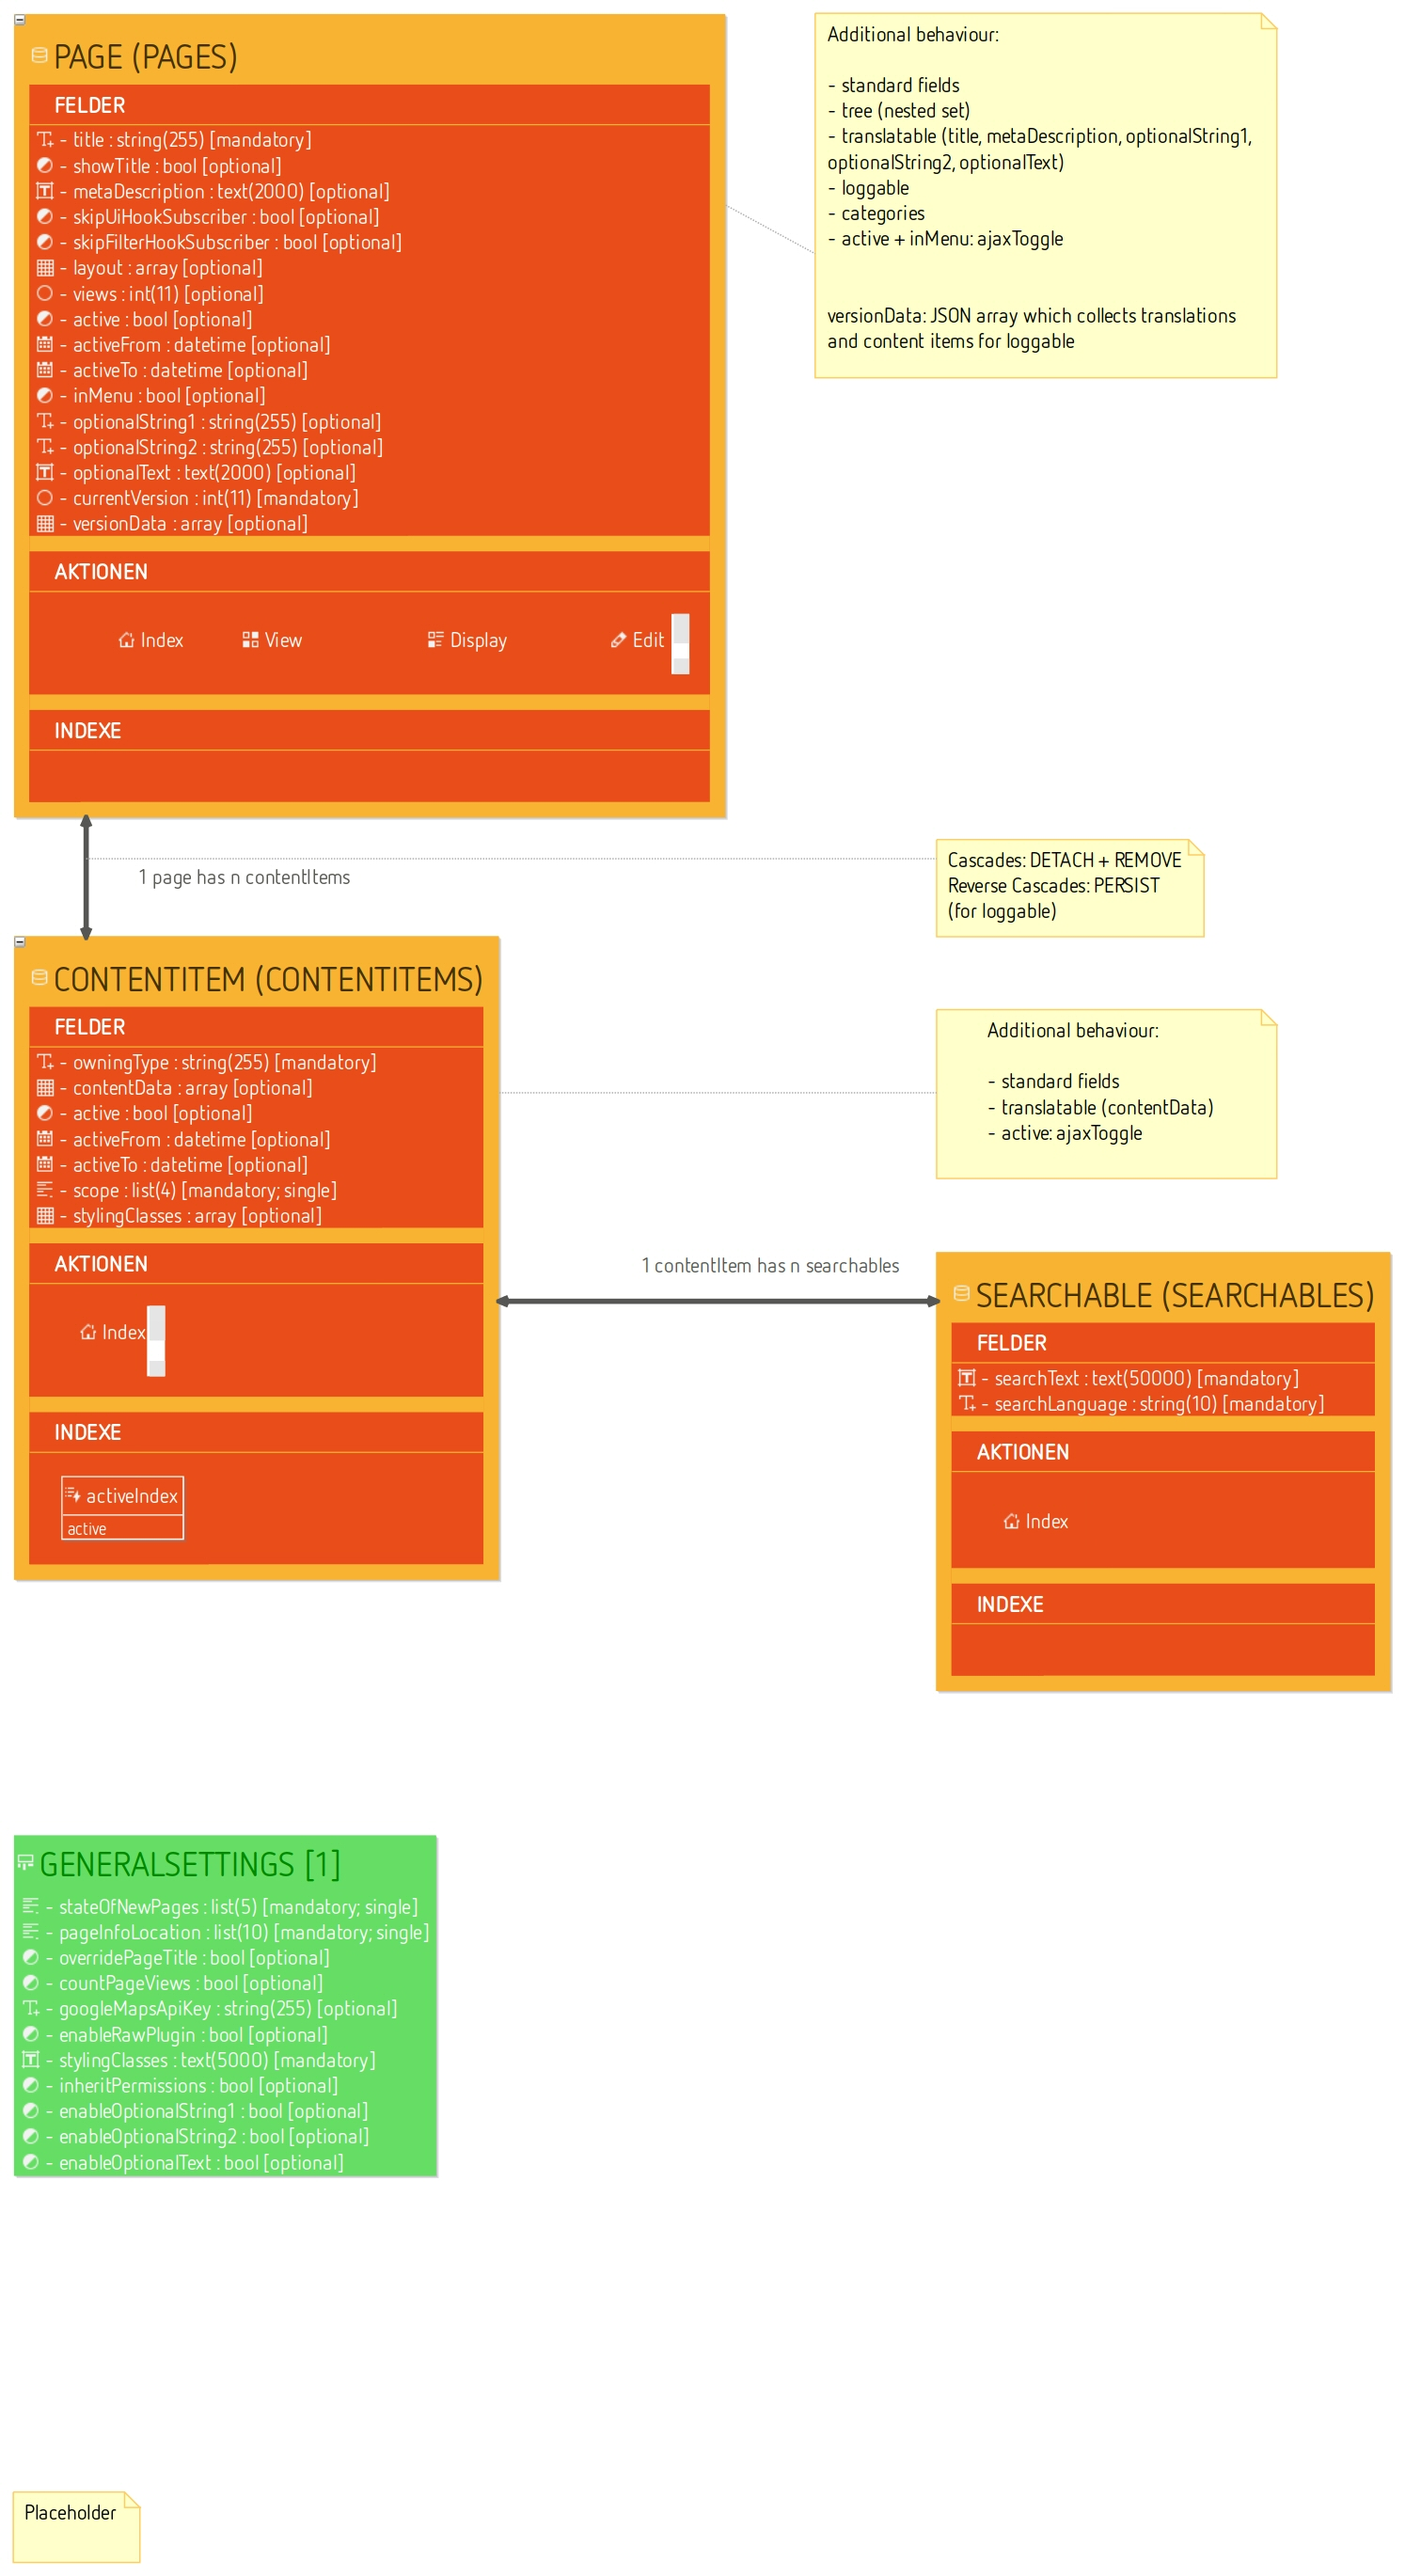
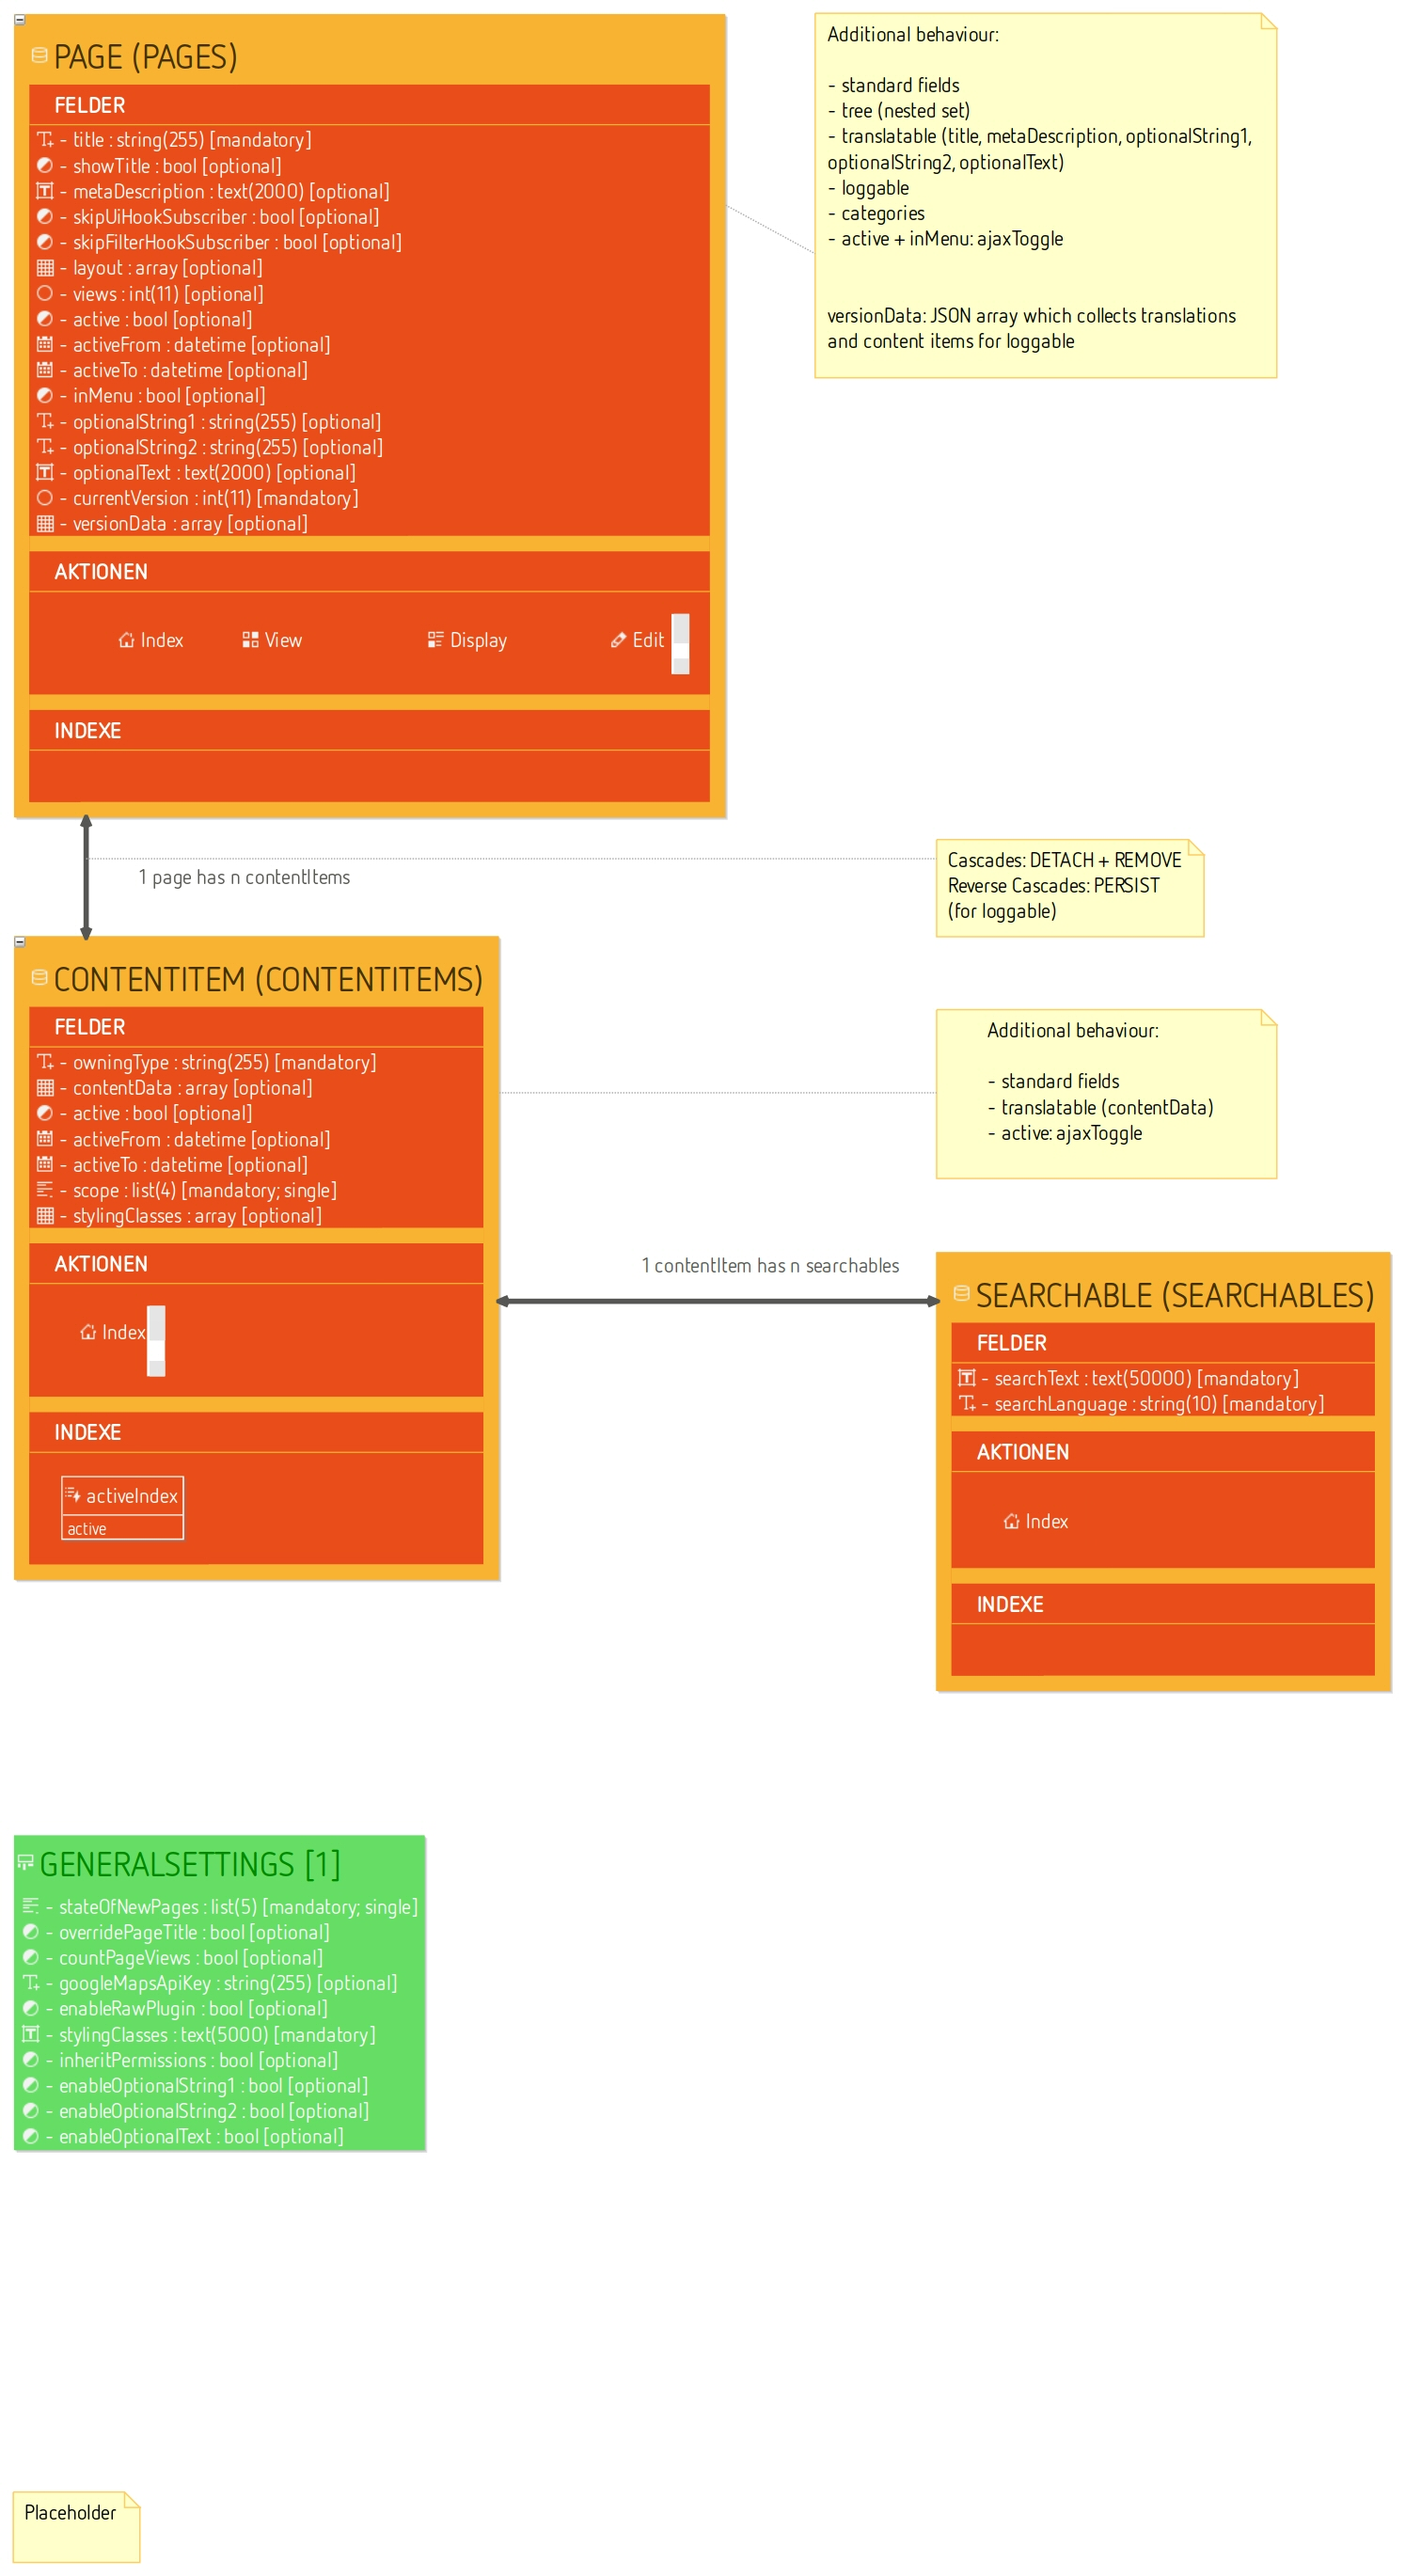
removed obsolete modvar

Changed region(s): [[0.0, 0.7138, 0.3387, 0.8689]]

diff --git a/src/modules/Zikula/ContentModule/Resources/docs/model/structure_de.html b/src/modules/Zikula/ContentModule/Resources/docs/model/structure_de.html
@@ -1552,25 +1552,6 @@
                 </td>
             </tr>
             <tr>
-                <th id="hVariablesGeneralSettingsFieldPageInfoLocation" scope="row" headers="hVariablesGeneralSettingsFieldName">Page info location</th>
-                <td headers="hVariablesGeneralSettingsFieldPageInfoLocation hVariablesGeneralSettingsFieldType">Liste</td>
-                <td headers="hVariablesGeneralSettingsFieldPageInfoLocation hVariablesGeneralSettingsFieldMandatory">true</td>
-                <td headers="hVariablesGeneralSettingsFieldPageInfoLocation hVariablesGeneralSettingsFieldDefault"></td>
-                <td headers="hVariablesGeneralSettingsFieldPageInfoLocation hVariablesGeneralSettingsFieldDisplayType">ALL</td>
-                <td headers="hVariablesGeneralSettingsFieldPageInfoLocation hVariablesGeneralSettingsFieldConstraints">
-                    <ul>
-                        <li>Hat eine Länge von 10 Zeichen.</li>
-                    </ul>
-                </td>
-                <td headers="hVariablesGeneralSettingsFieldPageInfoLocation hVariablesGeneralSettingsFieldRemarks">
-                    <ul>
-                        <li>Dieses Feld ist nicht eindeutig und erlaubt keine Null-Werte.</li>
-                        <li>Die Liste wird durch eine einwertige Dropdownliste repräsentiert.</li>
-                        <li>Verfügbare Einträge: <ul><li>Top of the page, left of the page title (top)</li><li>Bottom of the page (bottom)</li></ul></li>
-                    </ul>
-                </td>
-            </tr>
-            <tr>
                 <th id="hVariablesGeneralSettingsFieldOverridePageTitle" scope="row" headers="hVariablesGeneralSettingsFieldName">Override page title</th>
                 <td headers="hVariablesGeneralSettingsFieldOverridePageTitle hVariablesGeneralSettingsFieldType">Boolesches</td>
                 <td headers="hVariablesGeneralSettingsFieldOverridePageTitle hVariablesGeneralSettingsFieldMandatory">false</td>

diff --git a/src/modules/Zikula/ContentModule/Resources/docs/model/structure_en.html b/src/modules/Zikula/ContentModule/Resources/docs/model/structure_en.html
@@ -1552,25 +1552,6 @@
                 </td>
             </tr>
             <tr>
-                <th id="hVariablesGeneralSettingsFieldPageInfoLocation" scope="row" headers="hVariablesGeneralSettingsFieldName">Page info location</th>
-                <td headers="hVariablesGeneralSettingsFieldPageInfoLocation hVariablesGeneralSettingsFieldType">List</td>
-                <td headers="hVariablesGeneralSettingsFieldPageInfoLocation hVariablesGeneralSettingsFieldMandatory">true</td>
-                <td headers="hVariablesGeneralSettingsFieldPageInfoLocation hVariablesGeneralSettingsFieldDefault"></td>
-                <td headers="hVariablesGeneralSettingsFieldPageInfoLocation hVariablesGeneralSettingsFieldDisplayType">ALL</td>
-                <td headers="hVariablesGeneralSettingsFieldPageInfoLocation hVariablesGeneralSettingsFieldConstraints">
-                    <ul>
-                        <li>Has a length of 10 chars.</li>
-                    </ul>
-                </td>
-                <td headers="hVariablesGeneralSettingsFieldPageInfoLocation hVariablesGeneralSettingsFieldRemarks">
-                    <ul>
-                        <li>This field is not unique and allows no null values.</li>
-                        <li>The list is represented by a single-valued dropdown list.</li>
-                        <li>Available entries: <ul><li>Topofthepageleftofthepagetitle (top)</li><li>Bottomofthepage (bottom)</li></ul></li>
-                    </ul>
-                </td>
-            </tr>
-            <tr>
                 <th id="hVariablesGeneralSettingsFieldOverridePageTitle" scope="row" headers="hVariablesGeneralSettingsFieldName">Override page title</th>
                 <td headers="hVariablesGeneralSettingsFieldOverridePageTitle hVariablesGeneralSettingsFieldType">Boolean</td>
                 <td headers="hVariablesGeneralSettingsFieldOverridePageTitle hVariablesGeneralSettingsFieldMandatory">false</td>

diff --git a/src/modules/Zikula/ContentModule/Base/AbstractAppSettings.php b/src/modules/Zikula/ContentModule/Base/AbstractAppSettings.php
@@ -33,13 +33,6 @@ abstract class AbstractAppSettings
     protected $stateOfNewPages = '1';
     
     /**
-     * @Assert\NotBlank()
-     * @ContentAssert\ListEntry(entityName="appSettings", propertyName="pageInfoLocation", multiple=false)
-     * @var string $pageInfoLocation
-     */
-    protected $pageInfoLocation = 'top';
-    
-    /**
      * Override page title with the Content page title
      *
      * @Assert\NotNull()
@@ -202,30 +195,6 @@ abstract class AbstractAppSettings
     {
         if ($this->stateOfNewPages !== $stateOfNewPages) {
             $this->stateOfNewPages = isset($stateOfNewPages) ? $stateOfNewPages : '';
-        }
-    }
-    
-    /**
-     * Returns the page info location.
-     *
-     * @return string
-     */
-    public function getPageInfoLocation()
-    {
-        return $this->pageInfoLocation;
-    }
-    
-    /**
-     * Sets the page info location.
-     *
-     * @param string $pageInfoLocation
-     *
-     * @return void
-     */
-    public function setPageInfoLocation($pageInfoLocation)
-    {
-        if ($this->pageInfoLocation !== $pageInfoLocation) {
-            $this->pageInfoLocation = isset($pageInfoLocation) ? $pageInfoLocation : '';
         }
     }
     
@@ -576,9 +545,6 @@ abstract class AbstractAppSettings
         if (isset($moduleVars['stateOfNewPages'])) {
             $this->setStateOfNewPages($moduleVars['stateOfNewPages']);
         }
-        if (isset($moduleVars['pageInfoLocation'])) {
-            $this->setPageInfoLocation($moduleVars['pageInfoLocation']);
-        }
         if (isset($moduleVars['overridePageTitle'])) {
             $this->setOverridePageTitle($moduleVars['overridePageTitle']);
         }
@@ -629,7 +595,6 @@ abstract class AbstractAppSettings
     public function save()
     {
         $this->variableApi->set('ZikulaContentModule', 'stateOfNewPages', $this->getStateOfNewPages());
-        $this->variableApi->set('ZikulaContentModule', 'pageInfoLocation', $this->getPageInfoLocation());
         $this->variableApi->set('ZikulaContentModule', 'overridePageTitle', $this->getOverridePageTitle());
         $this->variableApi->set('ZikulaContentModule', 'countPageViews', $this->getCountPageViews());
         $this->variableApi->set('ZikulaContentModule', 'googleMapsApiKey', $this->getGoogleMapsApiKey());

diff --git a/src/modules/Zikula/ContentModule/Helper/Base/AbstractListEntriesHelper.php b/src/modules/Zikula/ContentModule/Helper/Base/AbstractListEntriesHelper.php
@@ -158,9 +158,6 @@ abstract class AbstractListEntriesHelper
                     case 'stateOfNewPages':
                         $result = false;
                         break;
-                    case 'pageInfoLocation':
-                        $result = false;
-                        break;
                     case 'enabledFinderTypes':
                         $result = true;
                         break;
@@ -216,9 +213,6 @@ abstract class AbstractListEntriesHelper
                 switch ($fieldName) {
                     case 'stateOfNewPages':
                         $entries = $this->getStateOfNewPagesEntriesForAppSettings();
-                        break;
-                    case 'pageInfoLocation':
-                        $entries = $this->getPageInfoLocationEntriesForAppSettings();
                         break;
                     case 'enabledFinderTypes':
                         $entries = $this->getEnabledFinderTypesEntriesForAppSettings();
@@ -416,32 +410,6 @@ abstract class AbstractListEntriesHelper
         $states[] = [
             'value'   => '4',
             'text'    => $this->__('New pages will be inactive and not available in the menu'),
-            'title'   => '',
-            'image'   => '',
-            'default' => false
-        ];
-    
-        return $states;
-    }
-    
-    /**
-     * Get 'page info location' list entries.
-     *
-     * @return array Array with desired list entries
-     */
-    public function getPageInfoLocationEntriesForAppSettings()
-    {
-        $states = [];
-        $states[] = [
-            'value'   => 'top',
-            'text'    => $this->__('Top of the page, left of the page title'),
-            'title'   => '',
-            'image'   => '',
-            'default' => true
-        ];
-        $states[] = [
-            'value'   => 'bottom',
-            'text'    => $this->__('Bottom of the page'),
             'title'   => '',
             'image'   => '',
             'default' => false

diff --git a/src/modules/Zikula/ContentModule/Form/Type/Base/AbstractConfigType.php b/src/modules/Zikula/ContentModule/Form/Type/Base/AbstractConfigType.php
@@ -105,27 +105,6 @@ abstract class AbstractConfigType extends AbstractType
             'expanded' => false
         ]);
         
-        $listEntries = $this->listHelper->getEntries('appSettings', 'pageInfoLocation');
-        $choices = [];
-        $choiceAttributes = [];
-        foreach ($listEntries as $entry) {
-            $choices[$entry['text']] = $entry['value'];
-            $choiceAttributes[$entry['text']] = ['title' => $entry['title']];
-        }
-        $builder->add('pageInfoLocation', ChoiceType::class, [
-            'label' => $this->__('Page info location') . ':',
-            'empty_data' => '',
-            'attr' => [
-                'class' => '',
-                'title' => $this->__('Choose the page info location.')
-            ],
-            'required' => true,
-            'choices' => $choices,
-            'choice_attr' => $choiceAttributes,
-            'multiple' => false,
-            'expanded' => false
-        ]);
-        
         $builder->add('overridePageTitle', CheckboxType::class, [
             'label' => $this->__('Override page title') . ':',
             'label_attr' => [

diff --git a/src/modules/Zikula/ContentModule/Base/AbstractContentModuleInstaller.php b/src/modules/Zikula/ContentModule/Base/AbstractContentModuleInstaller.php
@@ -45,7 +45,6 @@ abstract class AbstractContentModuleInstaller extends AbstractExtensionInstaller
     
         // set up all our vars with initial values
         $this->setVar('stateOfNewPages', '1');
-        $this->setVar('pageInfoLocation', 'top');
         $this->setVar('overridePageTitle', true);
         $this->setVar('countPageViews', false);
         $this->setVar('googleMapsApiKey', '');

diff --git a/src/modules/Zikula/ContentModule/Base/bootstrap.php b/src/modules/Zikula/ContentModule/Base/bootstrap.php
@@ -6,7 +6,7 @@
  * @license http://www.gnu.org/licenses/lgpl.html GNU Lesser General Public License
  * @author Axel Guckelsberger <info@ziku.la>.
  * @link https://ziku.la
- * @version Generated by ModuleStudio 1.3.2 (https://modulestudio.de) at Thu Aug 09 12:54:49 CEST 2018.
+ * @version Generated by ModuleStudio 1.3.2 (https://modulestudio.de) at Thu Aug 09 13:34:23 CEST 2018.
  */
 
 /**

diff --git a/src/modules/Zikula/ContentModule/bootstrap.php b/src/modules/Zikula/ContentModule/bootstrap.php
@@ -6,7 +6,7 @@
  * @license http://www.gnu.org/licenses/lgpl.html GNU Lesser General Public License
  * @author Axel Guckelsberger <info@ziku.la>.
  * @link https://ziku.la
- * @version Generated by ModuleStudio 1.3.2 (https://modulestudio.de) at Thu Aug 09 12:54:49 CEST 2018.
+ * @version Generated by ModuleStudio 1.3.2 (https://modulestudio.de) at Thu Aug 09 13:34:23 CEST 2018.
  */
 
 /**
